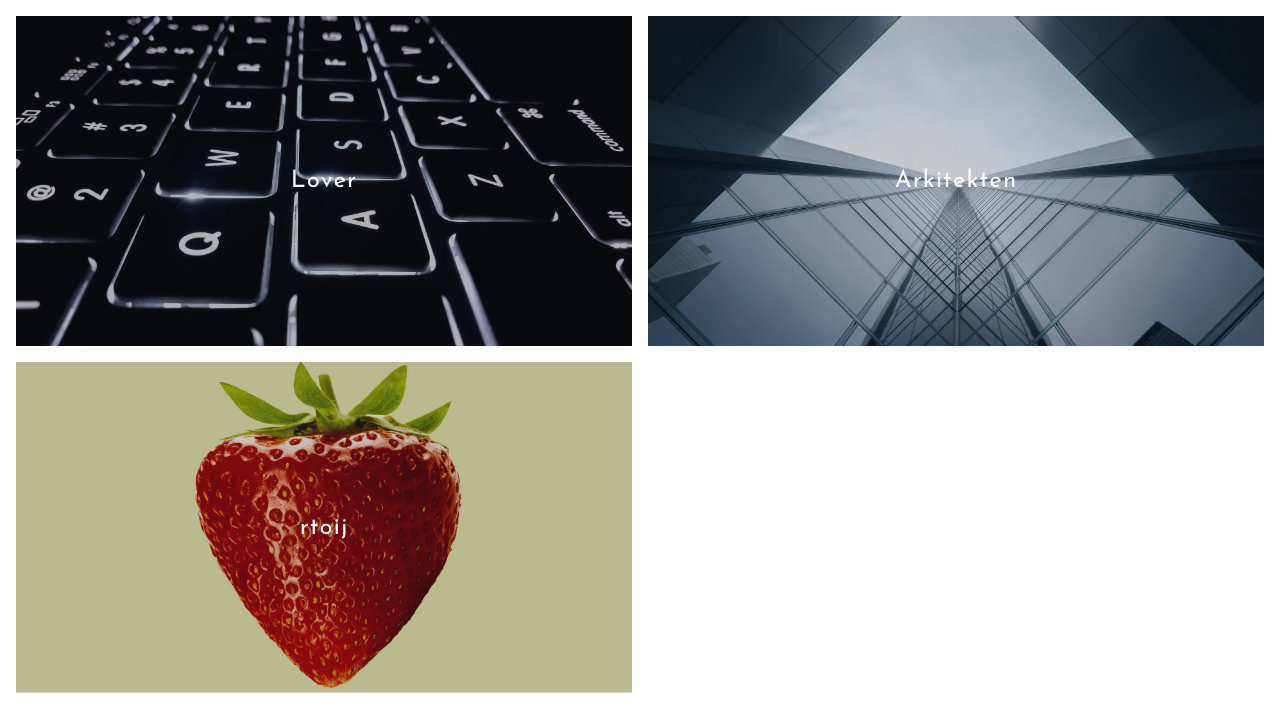
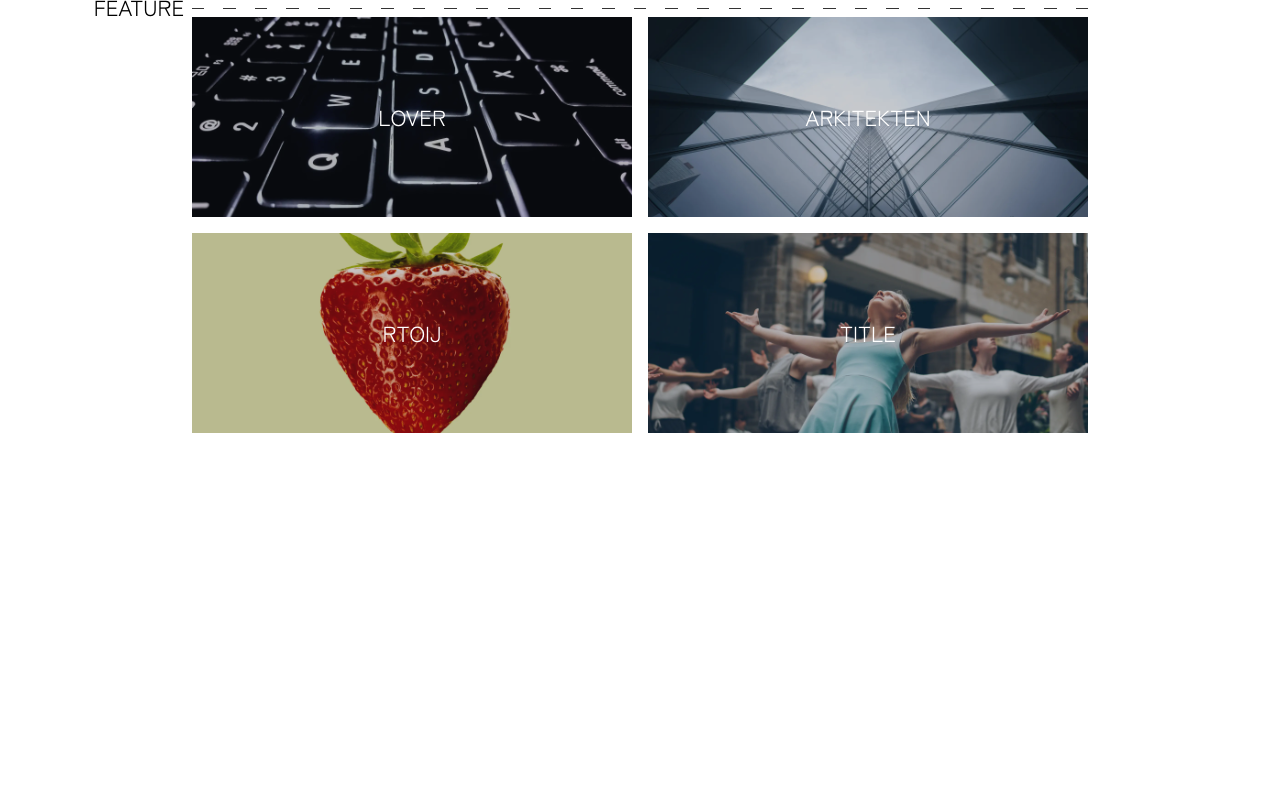
changes to projectGrid slice and hero/header

diff --git a/src/slices/ProjectGrid/index.js b/src/slices/ProjectGrid/index.js
@@ -17,8 +17,8 @@ const titleText = {
   ),
 };
 const kategori = {
-  paragraph: ({ children }) => (
-    <p className="lg:absolute max-lg:text-center lg:text-right top-[-50%] right-[100%] lg:w-[13vw] break-normal lg:pr-2 max-lg:pb-2 text-size5 text-black col-start-1 row-start-1 z-[1] uppercase">
+  heading3: ({ children }) => (
+    <p className="lg:absolute max-lg:text-center lg:text-right top-[-30%] right-[100%] lg:w-[15vw] break-words lg:pr-2 max-lg:pb-2 text-size5 text-black col-start-1 row-start-1 z-[1] uppercase">
       {children}
     </p>
   ),
@@ -52,7 +52,7 @@ const overlayColorToClass = {
       data-slice-variation={slice.variation}
       className="lg:px-[15vw] max-lg:px-[2vw]"
     >
-      <div className="relative max-lg:flex flex-col-reverse  w-full py-2">
+      <div className="relative max-lg:flex flex-col-reverse  w-full md:py-3 max-md:py-3">
         <div className="bg-transparent w-full h-[1px] border-black border-dashed dashBorder" />
         <PrismicRichText field={slice.primary.kategori} components={kategori} />
       </div>
@@ -61,7 +61,7 @@ const overlayColorToClass = {
           return (
             <div
               key={index * 2}
-              className="relative w-full lg:pb-[25vh] max-lg:pb-[18vh] overflow-hidden m-auto"
+              className="relative w-full lg:h-[25vh] max-lg:h-[18vh] min-h-[10rem] overflow-hidden m-auto"
             >
               <article className="grid absolute inset-0 justify-items-center items-center">
                 <Image
@@ -90,24 +90,4 @@ const overlayColorToClass = {
 };
 
 export default ProjectGrid;
-/*   <section
-      data-slice-type={slice.slice_type}
-      data-slice-variation={slice.variation}
-      className="grid grid-cols-2 grid-rows-[300px_minmax(900px,_1fr)_100px] justify-items-center items-center"
-    >
-      {slice.items.map((item, index) => {
-        return (
-          <article key={index * 2} className="grid">
-            <PrismicRichText field={item.title} components={titleText} />
-            <Image
-              src={item.image.url}
-              alt="image"
-              width={item.image.dimensions.width}
-              height={item.image.dimensions.height}
-              style={{ objectFit: "cover" }}
-              className="col-start-1 row-start-1 overflow-hidden"
-            />
-          </article>
-        );
-      })}
-    </section> */
+/*   lg:pb-[25vh] max-lg:pb-[18vh] */

diff --git a/src/components/Header.js b/src/components/Header.js
@@ -52,7 +52,7 @@ export function Header({ navigation, settings, bgwhite, bgblack, textwhite, text
                           ? `${textwhite}`
                           : `${textwhite}`
                       } ${
-                        path === item.link.url && "underline"
+                        path === item.link.url ? "underline":"duration-300 hover:opacity-70"
                       } underline-offset-8 decoration-1`}
                     >
                       <PrismicText field={item.label} />

diff --git a/prismicio-types.d.ts b/prismicio-types.d.ts
@@ -662,13 +662,13 @@ interface ProjectGridSliceDefaultPrimary {
   /**
    * Kategori field in *ProjectGrid → Primary*
    *
-   * - **Field Type**: Rich Text
+   * - **Field Type**: Title
    * - **Placeholder**: *None*
    * - **API ID Path**: project_grid.primary.kategori
    * - **Documentation**: https://prismic.io/docs/core-concepts/rich-text-title
    *
    */
-  kategori: prismic.RichTextField;
+  kategori: prismic.TitleField;
 }
 /**
  * Item in ProjectGrid → Items
